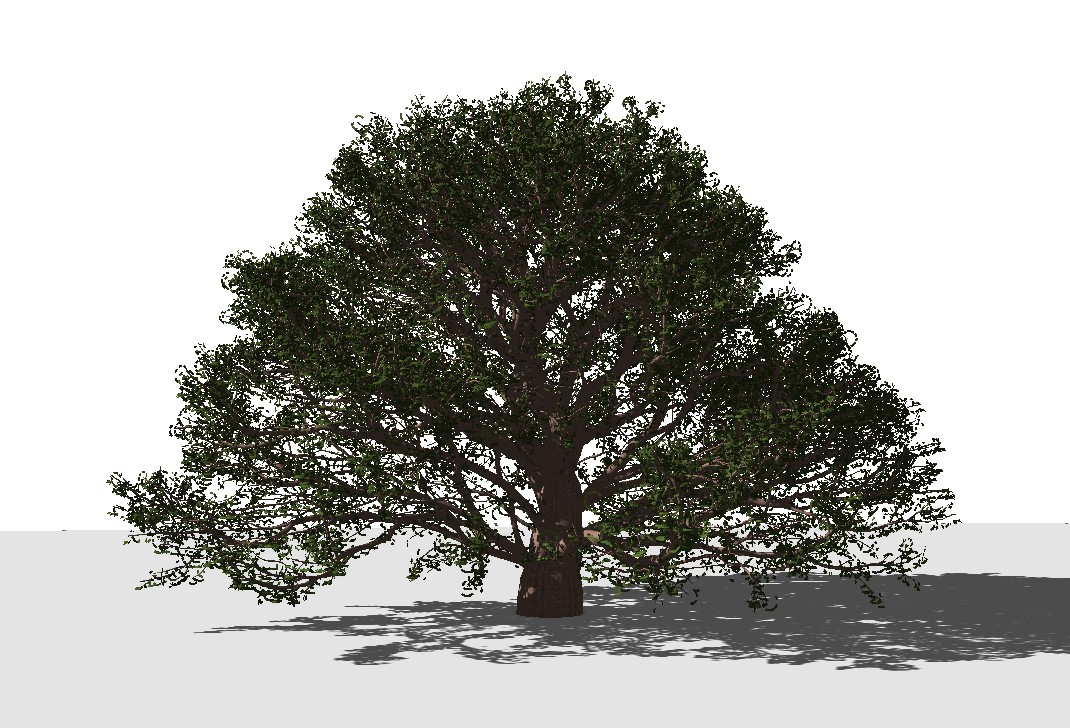
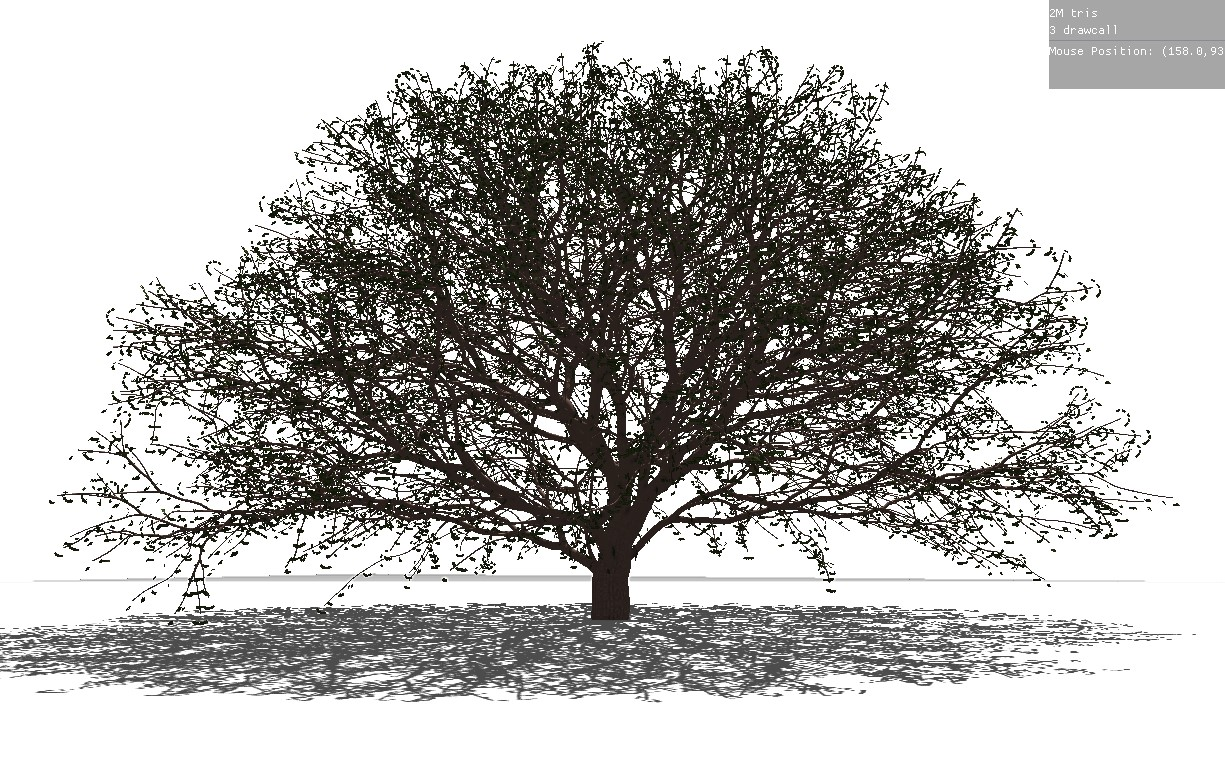
1

diff --git a/TreeCreator/PlantSimulationSystem.cpp b/TreeCreator/PlantSimulationSystem.cpp
@@ -14,19 +14,25 @@
 
 void TreeUtilities::PlantSimulationSystem::FixedUpdate()
 {
-	
+
 }
 void TreeUtilities::PlantSimulationSystem::TryGrowAllTrees(std::vector<Entity>& trees)
 {
 	bool growed = false;
-	if (_Growing) {
-		for (auto& tree : trees) {
-			growed = growed || GrowTree(tree);
-		}
-		if (!growed) {
-			_Growing = false;
-		}
-		else RefreshTrees();
+
+	for (auto& tree : trees) {
+		growed = growed || GrowTree(tree);
+	}
+	RefreshTrees();
+	if (!growed) {
+		_Growing = false;
+		float timer = Application::EngineTime() - _GrowthTimer;
+		Debug::Log("Structural growth completed in " + std::to_string(timer) + " seconds.");
+		Debug::Log("Generating leaves...");
+		timer = Application::EngineTime();
+		GenerateLeavesForAllTrees(trees);
+		timer = Application::EngineTime() - timer;
+		Debug::Log("Leaves generation completed in " + std::to_string(timer) + " seconds.");
 	}
 }
 bool TreeUtilities::PlantSimulationSystem::GrowTree(Entity& treeEntity)
@@ -474,7 +480,7 @@ Entity TreeUtilities::PlantSimulationSystem::CreateTree(std::shared_ptr<Material
 	UpdateLocalTransform(internode, treeParameters, id, ltw.Value);
 	EntityManager::SetComponentData(treeEntity, treeParameters);
 	EntityManager::SetComponentData(treeEntity, age);
-	_Growing = true;
+	ResumeGrowth();
 	return treeEntity;
 }
 bool TreeUtilities::PlantSimulationSystem::GrowShoots(Entity& internode, std::shared_ptr<TreeData>& treeData, TreeAge& treeAge, TreeParameters& treeParameters, TreeIndex& treeIndex, glm::mat4& treeTransform)
@@ -1184,8 +1190,25 @@ void PlantSimulationSystem::BuildHullForTree(Entity& tree)
 	*/
 }
 
-void PlantSimulationSystem::GenerateLeaves(Entity& internode, TreeParameters& treeParameters, TreeAge& treeAge,
-	glm::mat4& treeTransform, std::vector<glm::mat4>& leafTransforms, bool isLeft)
+void PlantSimulationSystem::ResumeGrowth()
+{
+	_Growing = true;
+	_GrowthTimer = Application::EngineTime();
+}
+
+void PlantSimulationSystem::GenerateLeavesForAllTrees(std::vector<Entity>& trees)
+{
+	for (auto& tree : trees) {
+		TreeParameters treeParameters = EntityManager::GetComponentData<TreeParameters>(tree);
+		LocalToWorld treeLocalToWorld = EntityManager::GetComponentData<LocalToWorld>(tree);
+		auto immc = EntityManager::GetSharedComponent<InstancedMeshRenderer>(tree);
+		GenerateLeaves(EntityManager::GetChildren(tree)[0], treeParameters, treeLocalToWorld.Value, immc->Matrices, true);
+		Debug::Log(std::to_string(immc->Matrices.size()));
+	}
+}
+
+void PlantSimulationSystem::GenerateLeaves(Entity& internode, TreeParameters& treeParameters,
+                                           glm::mat4& treeTransform, std::vector<glm::mat4>& leafTransforms, bool isLeft)
 {
 	InternodeInfo internodeInfo = EntityManager::GetComponentData<InternodeInfo>(internode);
 	Illumination internodeIllumination = EntityManager::GetComponentData<Illumination>(internode);
@@ -1250,6 +1273,10 @@ void PlantSimulationSystem::GenerateLeaves(Entity& internode, TreeParameters& tr
 			}
 		}
 	}
+	EntityManager::ForEachChild(internode, [&treeParameters, &treeTransform, &leafTransforms, isLeft, this](Entity child)
+		{
+			GenerateLeaves(child, treeParameters, treeTransform, leafTransforms, !isLeft);
+		});
 }
 
 void PlantSimulationSystem::RefreshTrees()
@@ -1347,37 +1374,40 @@ void TreeUtilities::PlantSimulationSystem::Update()
 {
 	auto trees = std::vector<Entity>();
 	_TreeQuery.ToEntityArray(trees);
-	TryGrowAllTrees(trees);
-	
-	if (_DisplayConvexHull)
-	{
-		std::vector<LocalToWorld> ltws;
-		std::vector<Entity> trees;
-
-		_TreeQuery.ToComponentDataArray(ltws);
-		_TreeQuery.ToEntityArray(trees);
-
-
-		for (size_t i = 0; i < trees.size(); i++)
-		{
-			auto data = EntityManager::GetSharedComponent<TreeData>(trees[i]);
-			if (data->ConvexHull != nullptr) {
-				RenderManager::DrawMesh(data->ConvexHull.get(), _DefaultConvexHullSurfaceMaterial.get(), ltws[i].Value, Application::GetMainCameraComponent()->get()->Value.get(), false);
-			}
-		}
-
+	if (_Growing) {
+		TryGrowAllTrees(trees);
 	}
-	if (_InternodeSystem->GetConfigFlags() & InternodeSystem_DrawInternodes || _InternodeSystem->GetConfigFlags() & InternodeSystem_DrawConnections)
-	{
-		std::vector<Entity> trees;
-		_TreeQuery.ToEntityArray(trees);
-		for (size_t i = 0; i < trees.size(); i++)
+	else {
+		if (_DisplayConvexHull)
 		{
-			ApplyLocalTransform(trees[i]);
+			std::vector<LocalToWorld> ltws;
+			std::vector<Entity> trees;
+
+			_TreeQuery.ToComponentDataArray(ltws);
+			_TreeQuery.ToEntityArray(trees);
+
+
+			for (size_t i = 0; i < trees.size(); i++)
+			{
+				auto data = EntityManager::GetSharedComponent<TreeData>(trees[i]);
+				if (data->ConvexHull != nullptr) {
+					RenderManager::DrawMesh(data->ConvexHull.get(), _DefaultConvexHullSurfaceMaterial.get(), ltws[i].Value, Application::GetMainCameraComponent()->get()->Value.get(), false);
+				}
+			}
+
 		}
-		if (_InternodeSystem->GetConfigFlags() & InternodeSystem_DrawConnections)
+		if (_InternodeSystem->GetConfigFlags() & InternodeSystem_DrawInternodes || _InternodeSystem->GetConfigFlags() & InternodeSystem_DrawConnections)
 		{
-			_InternodeSystem->RefreshConnections();
+			std::vector<Entity> trees;
+			_TreeQuery.ToEntityArray(trees);
+			for (size_t i = 0; i < trees.size(); i++)
+			{
+				ApplyLocalTransform(trees[i]);
+			}
+			if (_InternodeSystem->GetConfigFlags() & InternodeSystem_DrawConnections)
+			{
+				_InternodeSystem->RefreshConnections();
+			}
 		}
 	}
 	DrawGui();
@@ -1888,6 +1918,12 @@ inline void TreeUtilities::PlantSimulationSystem::DrawGui()
 		if (ImGui::Button("Refresh all trees"))
 		{
 			RefreshTrees();
+			auto trees = std::vector<Entity>();
+			_TreeQuery.ToEntityArray(trees);
+			for (auto& tree : trees)
+			{
+				GenerateLeavesForAllTrees(trees);
+			}
 		}
 		ImGui::InputFloat("Limit angle", &_DirectionPruningLimitAngle, 0.0f, 0.0f, "%.1f");
 		ImGui::Checkbox("Enable direction pruning", &_EnableDirectionPruning);
@@ -1924,8 +1960,8 @@ inline void TreeUtilities::PlantSimulationSystem::DrawGui()
 					age->ToGrowIteration += _NewPushIteration;
 				});
 		}
-		if (ImGui::Button(_Growing ? "Pause growing" : "Resume growing")) {
-			_Growing = !_Growing;
+		if (ImGui::Button("Resume growth")) {
+			ResumeGrowth();
 		}
 		ImGui::Separator();
 		if (ImGui::Button("Delete all trees")) {

diff --git a/TreeCreator/PlantSimulationSystem.h b/TreeCreator/PlantSimulationSystem.h
@@ -12,7 +12,9 @@ namespace TreeUtilities {
 	class PlantSimulationSystem :
 		public SystemBase
 	{
+		float _GrowthTimer;
 #pragma region GUI Related
+		
 		float _DirectionPruningLimitAngle = 60;
 		bool _DisplayConvexHull = false;
 		bool _EnableDirectionPruning = true;
@@ -60,8 +62,10 @@ namespace TreeUtilities {
 		inline void PruneInternode(Entity& internode, InternodeInfo* internodeInfo, int pruneReason) const;
 		static inline void TreeParameterExportHelper(std::ofstream& ofs, TreeParameters& treeParameters);
 		void BuildHullForTree(Entity& tree);
+		void ResumeGrowth();
 	public:
-		void GenerateLeaves(Entity& internode, TreeParameters& treeParameters, TreeAge& treeAge, glm::mat4& treeTransform, std::vector<glm::mat4>& leafTransforms, bool isLeft);
+		void GenerateLeavesForAllTrees(std::vector<Entity>& trees);
+		void GenerateLeaves(Entity& internode, TreeParameters& treeParameters, glm::mat4& treeTransform, std::vector<glm::mat4>& leafTransforms, bool isLeft);
 		void RefreshTrees();
 		void ExportSettings(const std::string& path);
 		void ImportSettings(const std::string& path);
